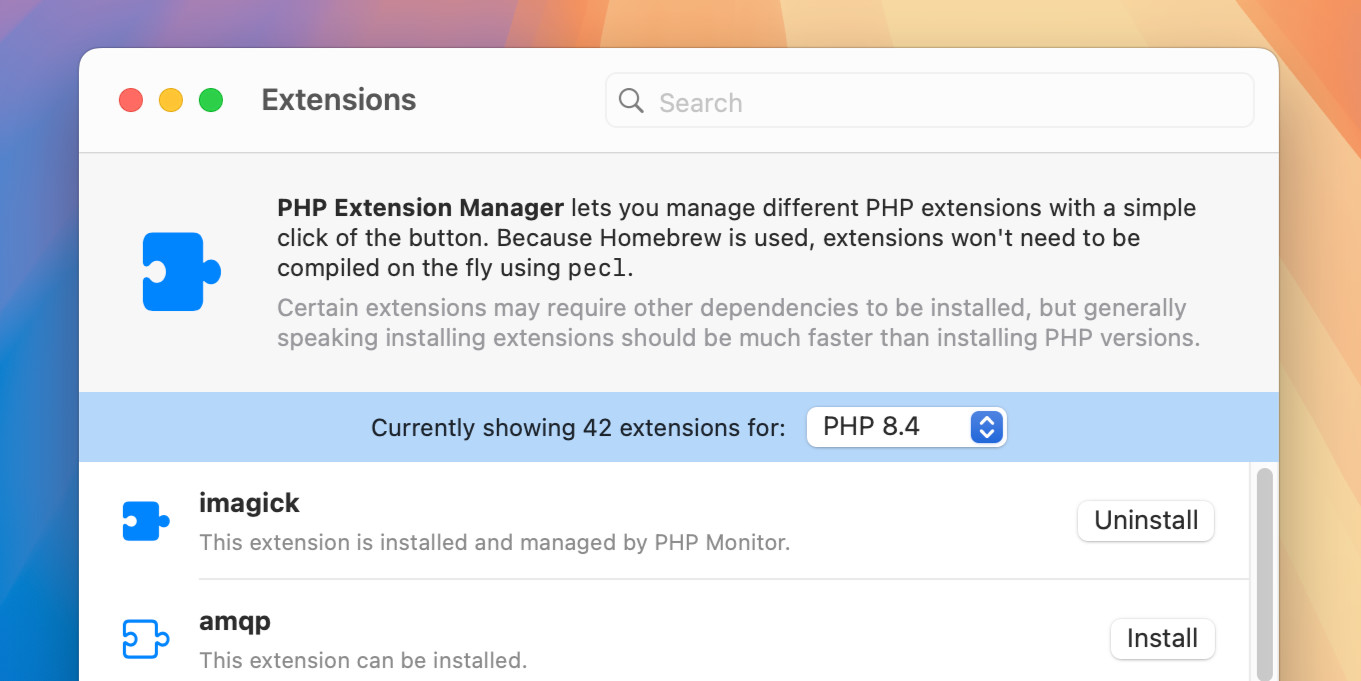
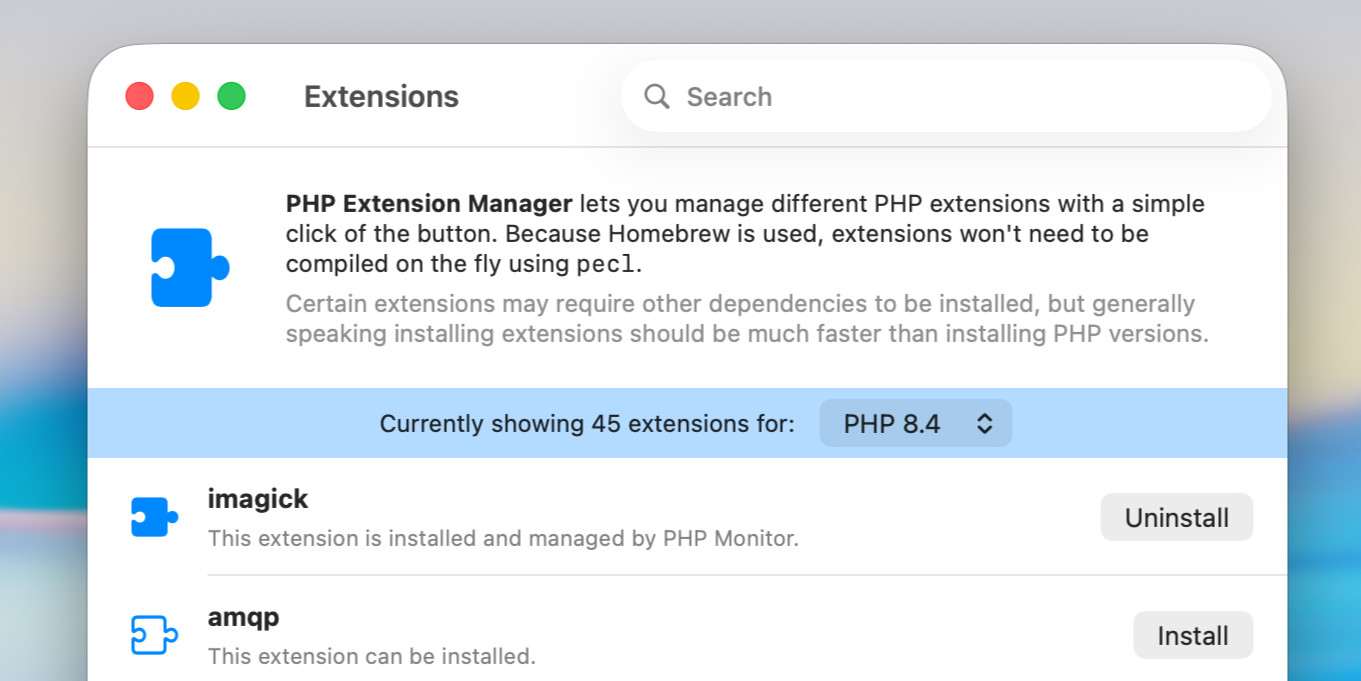
Update screenshots for Tahoe

diff --git a/resources/views/homepage.blade.php b/resources/views/homepage.blade.php
@@ -56,7 +56,7 @@
     <div class="px-4">
         <div class="flex flex-col m-auto max-w-3xl py-4 md:py-10">
             <div class="max-w-3xl m-auto" style="position: relative;">
-                <img src="{{ url('/images/marketing.jpg?v=2025.07') }}" alt="PHP Monitor" class="m-auto max-w-full bg-gray-100 rounded-xl shadow-lg">
+                <img src="{{ url('/images/marketing.jpg?v=2025.11') }}" alt="PHP Monitor" class="m-auto max-w-full bg-gray-100 rounded-xl shadow-lg">
             </div>
             <div class="max-w-2xl m-auto mt-12">
                 <p class="text-2xl leading-9 mb-6"><b>PHP Monitor</b> helps you set up and develop <span class="text-primary">Laravel</span> and <span class="text-primary">Symfony</span> projects. It's also great for <span class="text-primary">WordPress</span> or <span class="text-primary">Drupal</span> sites. In fact, it's a great companion for all kinds of projects, no matter the framework or CMS.</p>
@@ -106,31 +106,31 @@
         <x-feature feature-title="Totally free & open source" y-position="top" x-position="left" class="lg:flex-row-reverse" img-src="/images/oss.png?v=7">
              PHP Monitor's source code is, unlike other proprietary products, entirely <b>open source</b>. Also, all features that are part of PHP Monitor are available <b>entirely free of charge</b>, so you don't need to pay for any walled-off features. How great is that?
         </x-feature>
-        <x-feature feature-title="A GUI for managing PHP versions" img-src="/images/version-manager.jpg?v=2025.07" y-position="top">
+        <x-feature feature-title="A GUI for managing PHP versions" img-src="/images/version-manager.jpg?v=2025.11" y-position="top">
             With the PHP Version Manager, you can easily <b>install, upgrade and remove</b> individual PHP versions without needing to manually type or copy Homebrew commands. The app will also attempt to <b>automatically fix</b> broken PHP versions.
         </x-feature>
-        <x-feature feature-title="Information at a glance" img-src="/images/menu-bar.jpg?v=2025.07" y-position="top" class="lg:flex-row-reverse">
+        <x-feature feature-title="Information at a glance" img-src="/images/menu-bar.jpg?v=2025.11" y-position="top" class="lg:flex-row-reverse">
             PHP Monitor lives in your menu bar. From here, you can use the bulk of PHP Monitor's functionality, including the <b>global version switcher</b> as well as <b>services status</b> section.<br/><br/>If everything runs fine it'll be obvious, but if things happen to go wrong PHP Monitor will warn you, and help you figure out what to do.
         </x-feature>
-        <x-feature feature-title="No more hunting for config files" img-src="/images/config.jpg?v=2025.07" y-position="top">
+        <x-feature feature-title="No more hunting for config files" img-src="/images/config.jpg?v=2025.11" y-position="top">
             Sometimes you need to edit a <b>configuration file</b> or <b>toggle an extension</b>. But where are those pesky config files located again? From PHP Monitor's menu you can easily find them. Extensions can even be toggled with one click of the button!
         </x-feature>
-        <x-feature feature-title="All of your domains in a single list" img-src="/images/domains.jpg?v=2025.07" y-position="top" class="lg:flex-row-reverse">
+        <x-feature feature-title="All of your domains in a single list" img-src="/images/domains.jpg?v=2025.11" y-position="top" class="lg:flex-row-reverse">
             Do you have many projects or legacy sites? No worries, the app includes a <b>domain list</b> that you can use to get a quick overview of all domains and proxies you have set up, as well as their PHP version, what type of project they are, and more.
         </x-feature>
-        <x-feature feature-title="Quickly link a new domain or proxy" img-src="/images/link-folder.jpg?v=2025.07" y-position="top">
+        <x-feature feature-title="Quickly link a new domain or proxy" img-src="/images/link-folder.jpg?v=2025.11" y-position="top">
             You can easily <b>link or proxy</b> a folder: you can even easily customize the name of the domain and secure this new domain by simply checking a box. This will make these projects accessible as *.test domains on your system.
         </x-feature>
-        <x-feature feature-title="A different PHP version per domain" img-src="/images/isolation.jpg?v=2025.07" y-position="bottom" class="lg:flex-row-reverse">
+        <x-feature feature-title="A different PHP version per domain" img-src="/images/isolation.jpg?v=2025.11" y-position="bottom" class="lg:flex-row-reverse">
             In addition to offering a global version switcher (which switches the PHP version for all of your projects), this app also includes support for Valet's <b>site isolation</b> feature. This allows you to use a specific version of PHP with a specific domain, all while retaining the globally linked PHP version.
         </x-feature>
-        <x-feature feature-title="Determine compatibility" img-src="/images/phpinfo.jpg?v=2025.07">
+        <x-feature feature-title="Determine compatibility" img-src="/images/phpinfo.jpg?v=2025.11">
             PHP Monitor will help you figure out if your sites are <b>compatible</b> with the <b>currently linked version of PHP</b>. You will receive suggestions when <b>site isolation</b> may be of use for a given domain.
         </x-feature>
-        <x-feature feature-title="Easily manage PHP extensions" img-src="/images/extensions.jpg?v=2025.07" class="lg:flex-row-reverse" y-position="top">
+        <x-feature feature-title="Easily manage PHP extensions" img-src="/images/extensions.jpg?v=2025.11" class="lg:flex-row-reverse" y-position="top">
             With the new PHP Extension Manager, you can easily <b>install and remove</b> PHP extensions, all <b>using a GUI</b>. It is also super easy to manage your extensions on a per PHP version basis via the Domains window (you can right-click on a site and toggle extensions easily).
         </x-feature>
-        <x-feature feature-title="Small, frequent, fast and easy updates" img-src="/images/updater.jpg?v=2025.07" y-position="bottom">
+        <x-feature feature-title="Small, frequent, fast and easy updates" img-src="/images/updater.jpg?v=2025.11" y-position="bottom">
             The app also comes with an optional (but very fast) <b>built-in updater</b>, which allows you to stay up-to-date with the latest developments and bug fixes, so you can have a seamless PHP switching experience.
         </x-feature>
         <div class="flex lg:flex-row flex-col m-auto max-w-5xl py-4 md:py-8 gap-x-10">
